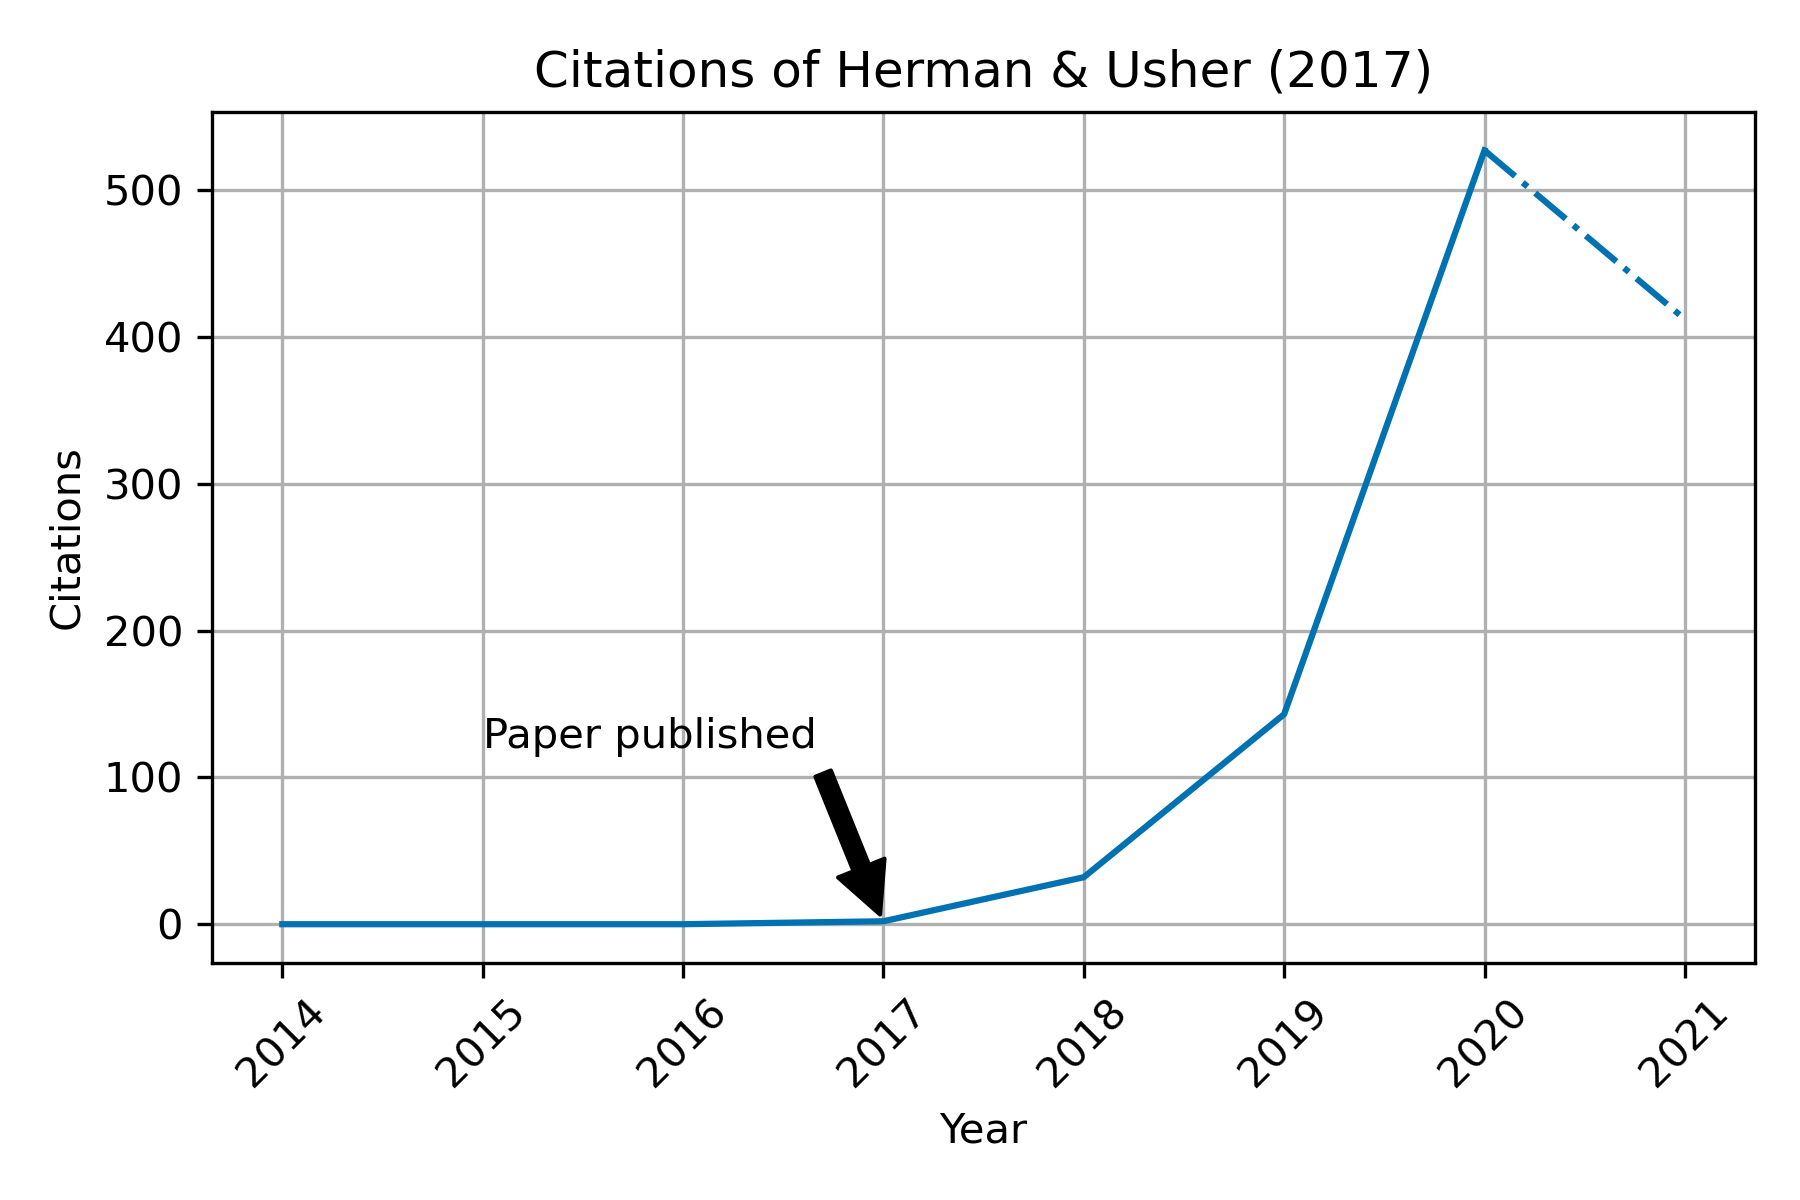
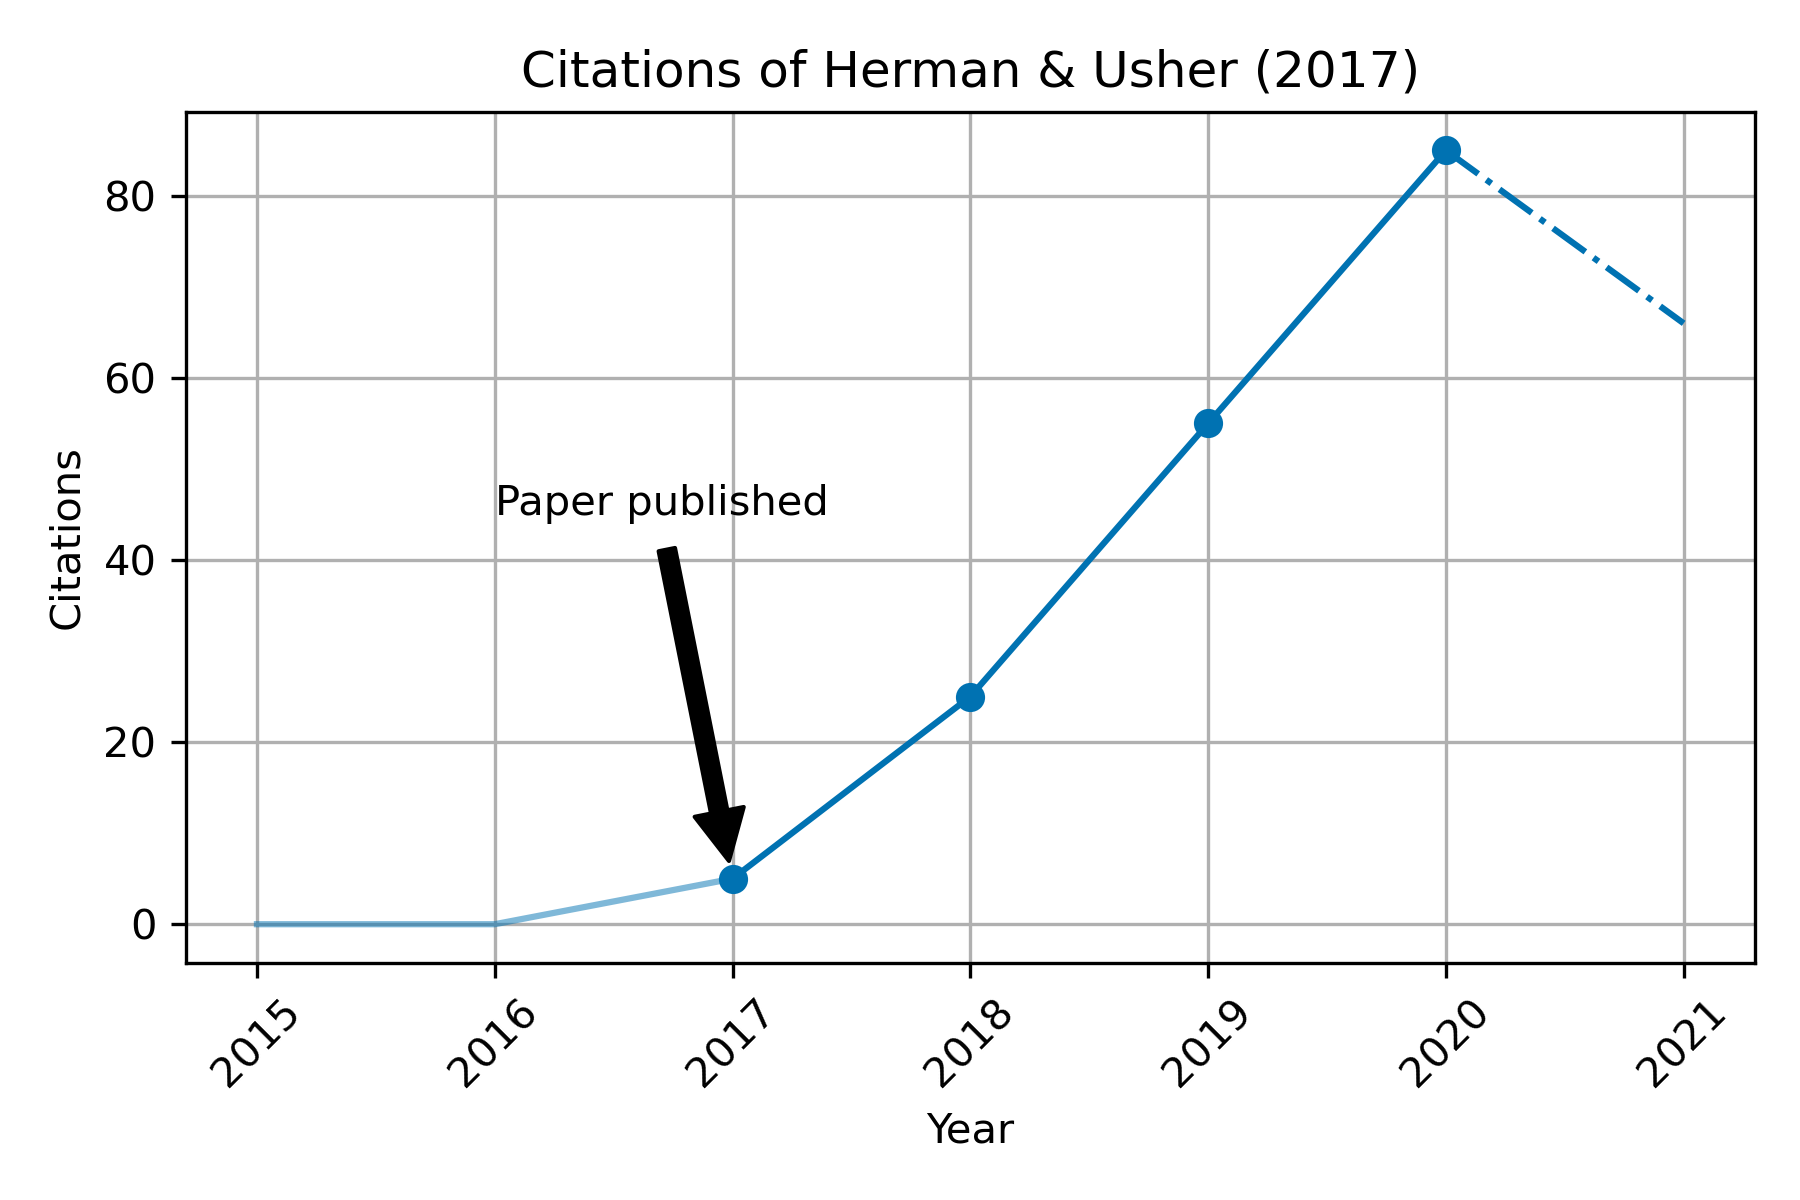
Updated figures and data

diff --git a/src/1_citation_trend.py b/src/1_citation_trend.py
@@ -1,3 +1,15 @@
+"""Plot citation trend.
+
+Data source:
+https://app.dimensions.ai/analytics/publication/overview/timeline?or_subset_publication_citations=pub.1068918762&local:indicator-y1=timeline-source-published
+
+Citations per year:
+2021-06-01_SALib_citations.csv
+
+Total citations (publications can cite more than once)
+2021-05-26_SALib_total_citations_year.csv
+"""
+
 import pandas as pd
 import matplotlib.pyplot as plt
 
@@ -6,18 +18,23 @@ from common import *
 
 plt.style.use('seaborn-colorblind')
 
-yearly_citations = pd.read_csv(f"{DATA_DIR}/2021-05-26_SALib_total_citations_year.csv", index_col=0)
+yearly_citations = pd.read_csv(f"{DATA_DIR}/2021-06-01_SALib_citations.csv", index_col=0)
 
-ax = yearly_citations.loc[:2020].plot(legend=False)
+ax = yearly_citations.loc[2017:2020].plot(legend=False, marker='o')
+(yearly_citations.loc[2015:2017]
+                 .plot(ax=ax, color="C0",
+                       ls="-", legend=False, alpha=0.5))
+
 (yearly_citations.loc[2020:]
                  .plot(ax=ax, color="C0", 
                        ls="-.", legend=False, rot=45, grid=True))
+
 
 ax.set_ylabel("Citations")
 ax.set_xlabel("Year")
 ax.set_title("Citations of Herman & Usher (2017)")
 
-ax.annotate("Paper published", xy=(2017, 1), xytext=(2015, 120),
+ax.annotate("Paper published", xy=(2017, 5), xytext=(2016, 45),
             arrowprops=dict(facecolor='black', shrink=0.05))
 
 plt.tight_layout()

diff --git a/src/2_github_interest.py b/src/2_github_interest.py
@@ -23,7 +23,8 @@ yearly_count.loc[2010, "Count"] = 0.0
 yearly_count.loc[2011, "Count"] = 0.0
 yearly_count.sort_index(inplace=True)
 
-ax = yearly_count.loc[:2020].plot(legend=False)
+ax = yearly_count.loc[:2013].plot(legend=False, alpha=0.5)
+yearly_count.loc[2013:2020].plot(legend=False, color='C0', ax=ax, marker='o')
 yearly_count.loc[2020:].plot(ax=ax, color="C0", ls="-.", legend=False, rot=45, grid=True)
 
 ax.set_ylabel("GitHub Stars")

diff --git a/README.md b/README.md
@@ -16,6 +16,8 @@ Sourced from https://dimensions.ai
 
 https://app.dimensions.ai/details/publication/pub.1068918762?search_mode=content&search_text=%22SALib%3A%20An%20open-source%20Python%20library%20for%20Sensitivity%0AAnalysis%22&search_type=kws&search_field=text_search 
 
+https://app.dimensions.ai/analytics/publication/overview/timeline?or_subset_publication_citations=pub.1068918762&local:indicator-y1=timeline-source-published
+
 
 Fields of Research Data:
 
